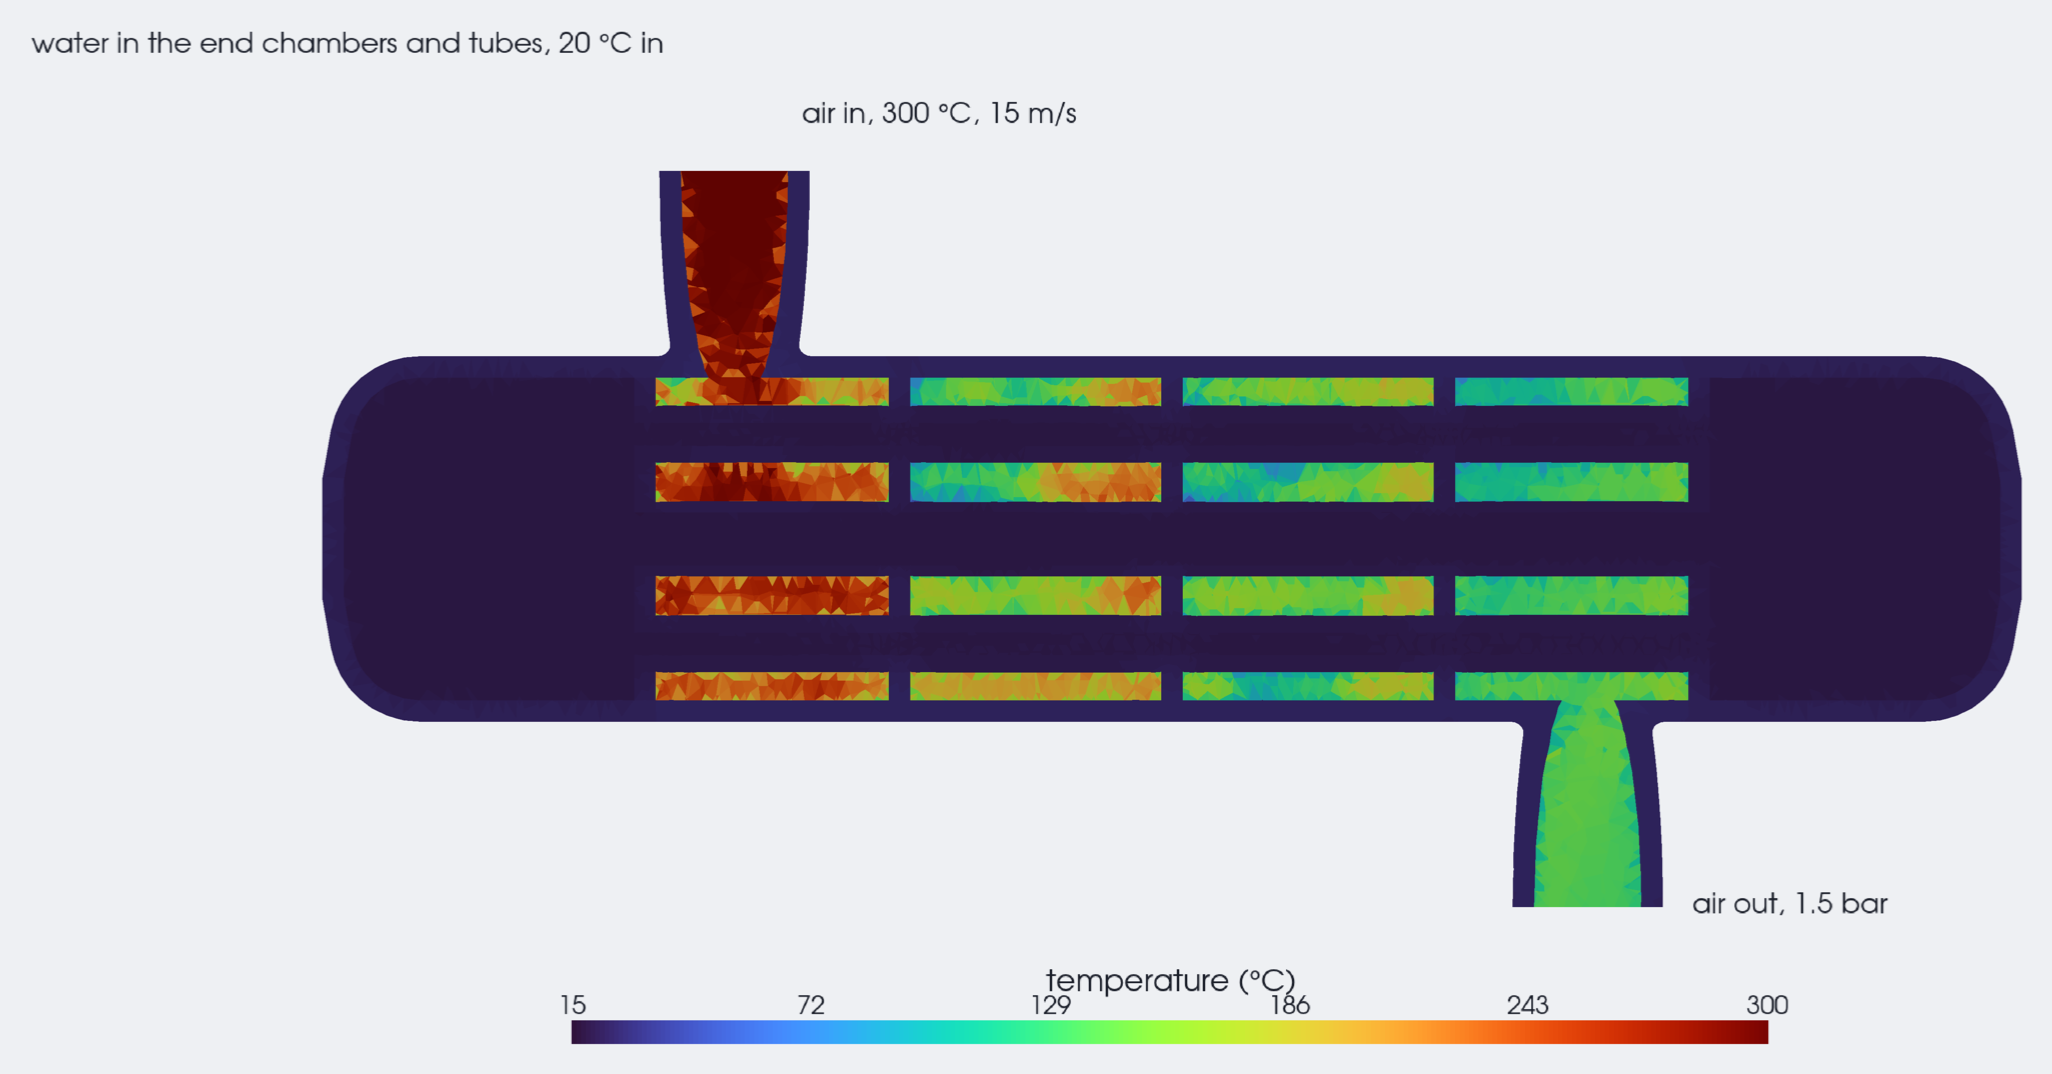
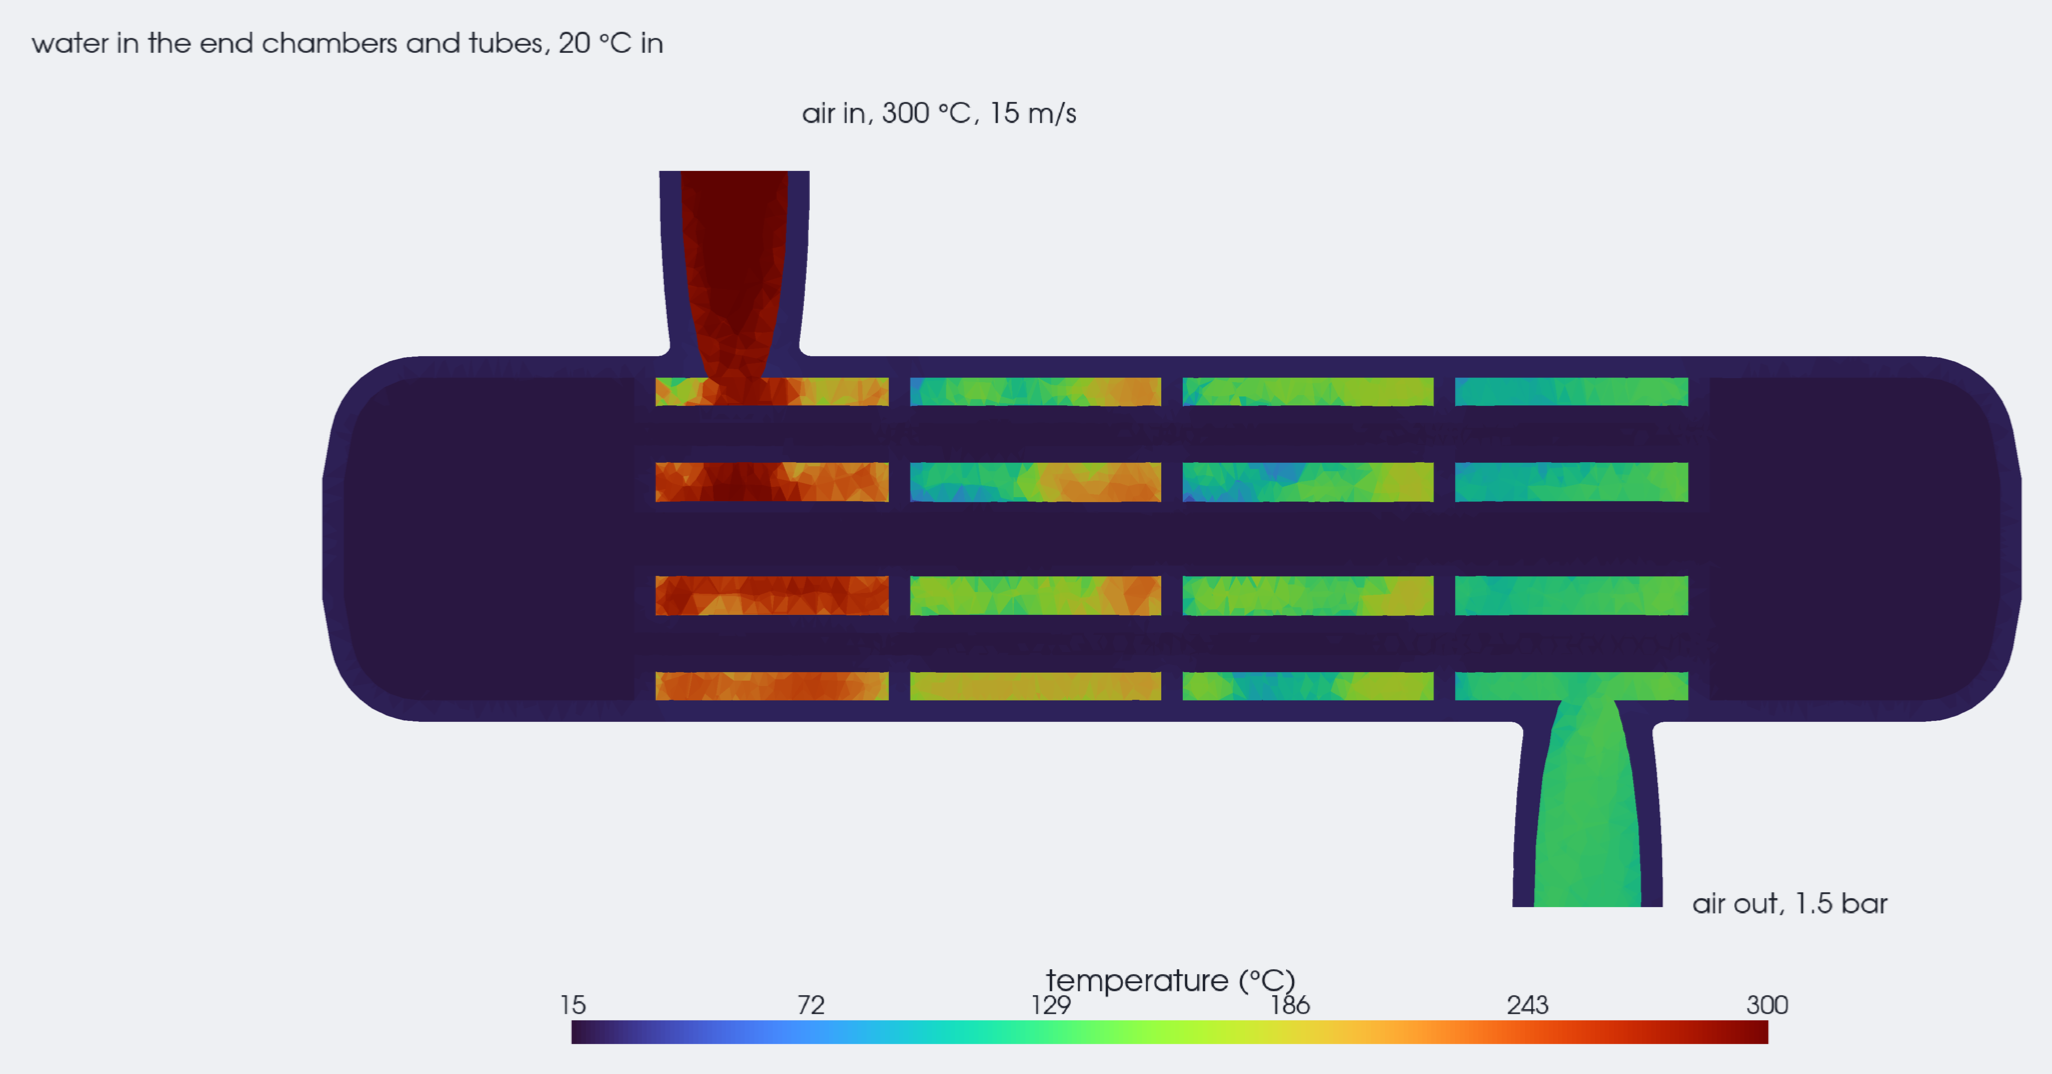
Heat exchanger (application 203): steel temperatures, coflow images redrawn from a clean state
Two images of the housing, tubesheets, tubes and baffles by temperature
(20 to 30 C) and a table per part. The coflow images and the README teaser
are redrawn from iteration 3 250: the old ones were drawn one iteration
after a restart that reset the vertex limiter's memory.

Claude-Session: https://claude.ai/code/session_012imjwmdhLmbpheTHrhVFSs

diff --git a/examples/applications/shell_tube_hx/flow_images.py b/examples/applications/shell_tube_hx/flow_images.py
@@ -1,7 +1,9 @@
 """Flow images of the heat exchanger (application 203): the temperature and
-the speed on a section through both air nozzles and the axis, and the
-temperature on the plane x = 0 through the water nozzles and two tubes;
-with a third argument also the README teaser.
+the speed on a section through both air nozzles and the axis, the
+temperature on the plane x = 0 through the water nozzles and two tubes,
+and the temperature of the steel (the housing cut open at x = 0 around the
+whole tube bundle, and the bundle alone from the other side); with a third
+argument also the README teaser.
 
     pip install h5py pyvista pillow
     xvfb-run -a python3 examples/applications/shell_tube_hx/flow_images.py \
@@ -27,8 +29,9 @@ f = h5py.File(src, "r")["VTKHDF/internal"]
 pts = f["Points"][()] * 1000.0  # mm
 conn, off = f["Connectivity"][()], f["Offsets"][()]
 g = pv.UnstructuredGrid(np.insert(conn, off[:-1], np.diff(off)), f["Types"][()], pts)
-for k in ["temperature", "speed", "zone"]:
+for k in ["temperature", "speed"]:
     g.cell_data[k] = f["CellData/" + k][()]
+g.cell_data["zone"] = f["CellData/zone"][()].astype(int)
 zone = g.cell_data["zone"]
 fluid = (zone == 1) | (zone == 2)
 g.cell_data["T_C"] = g.cell_data["temperature"] - 273.15
@@ -100,6 +103,37 @@ p.camera_position = cam([1.0, 0, 0], (0, 150, 25), (0, 0, 1))
 p.camera.zoom(1.5)
 p.screenshot(f"{out}/hx_flow_tube_plane.png")
 crop(f"{out}/hx_flow_tube_plane.png")
+
+# the steel: zones 0 (housing), 3 (tubesheets), 4 (tubes), 5 (baffles)
+STEEL = (20, 30)
+sbar = {**bar, "title": "steel temperature (°C)"}
+
+
+def zones(grid, which):
+    return grid.extract_cells(np.where(np.isin(grid.cell_data["zone"], which))[0])
+
+
+bundle = zones(g, [3, 4, 5]).extract_surface(algorithm="dataset_surface")
+house = zones(g, [0]).clip(normal=(1, 0, 0), origin=(0, 0, 0), invert=True)
+p = pv.Plotter(off_screen=True, window_size=(2400, 1200))
+p.set_background(BG)
+p.enable_anti_aliasing("ssaa")
+p.add_mesh(house.extract_surface(algorithm="dataset_surface"), scalars="T_C", cmap="inferno",
+           clim=STEEL, scalar_bar_args=sbar)
+p.add_mesh(bundle, scalars="T_C", cmap="inferno", clim=STEEL, show_scalar_bar=False, specular=0.2)
+p.camera_position = [(470, -190, 300), (0, 150, 25), (0, 0, 1)]
+p.camera.zoom(1.15)
+p.screenshot(f"{out}/hx_steel_cutaway.png")
+crop(f"{out}/hx_steel_cutaway.png")
+
+p = pv.Plotter(off_screen=True, window_size=(2400, 1200))
+p.set_background(BG)
+p.enable_anti_aliasing("ssaa")
+p.add_mesh(bundle, scalars="T_C", cmap="inferno", clim=STEEL, scalar_bar_args=sbar, specular=0.2)
+p.camera_position = [(-470, -190, -250), (0, 150, 25), (0, 0, 1)]
+p.camera.zoom(1.2)
+p.screenshot(f"{out}/hx_steel_bundle.png")
+crop(f"{out}/hx_steel_bundle.png")
 
 if readme:
     # the README teaser: the temperature section without the labels, 3:1

diff --git a/docs/applications/heat-exchangers.md b/docs/applications/heat-exchangers.md
@@ -33,7 +33,7 @@ one steady conjugate case, with the water in coflow and in counter flow.
 | Run cost | meshing 40 s (level 0) to 2 min (level 2) on one core; the flow on level 0, 2 500 iterations in 90 min on four cores |
 | Confidence | **demonstration**: one mesh (level 0), the water-side heat flows not settled (C3), see the check card |
 | Boundary conditions | hot air in through `shell_nozzle_front` at 15 m/s and 300 °C, out through `shell_nozzle_rear` at 1.5 bar; water in through a top nozzle at 5 m/s and 20 °C, out through the other at 1 bar; housing outside at 25 °C; everything starts at rest |
-| Case files | `applications/shell_tube_hx/mesh.toml` (mesh check); `case_coflow.toml` (water in at `tube_nozzle_front`, the air's end) and `case_counterflow.toml` (water in at `tube_nozzle_rear`); `flow_images.py` draws the flow images |
+| Case files | `applications/shell_tube_hx/mesh.toml` (mesh check); `case_coflow.toml` (water in at `tube_nozzle_front`, the air's end) and `case_counterflow.toml` (water in at `tube_nozzle_rear`); `flow_images.py` draws the flow and steel images |
 
 ### The mesh
 
@@ -144,6 +144,40 @@ within the swing of the iterations. The water also takes up the heat that
 enters through the outer housing face, held at 25 °C above the 20 °C of
 the water: 0.8 kW, almost half of the air's heat.
 
+### Steel temperatures
+
+<img src="../figures/applications/hx_steel_cutaway.png" alt="Cut-away of the exchanger, the housing cut open at x = 0 around the whole tube bundle, coloured by the steel temperature from 20 to 30 °C: the tubes and the tubesheets dark at 20 to 24 °C, the rims of the three baffles and the housing near the air nozzles warmer, up to about 27 °C" width="800" height="507">
+
+*Coflow, iteration 3 250: the housing cut open at x = 0 around the whole
+tube bundle. The colour range is 20 to 30 °C, not the 15 to 300 °C of the
+flow images: the steel stays within a few kelvin of the water.*
+
+<img src="../figures/applications/hx_steel_bundle.png" alt="The tube bundle alone from the other side, coloured by the steel temperature from 20 to 30 °C: seven dark tubes near 21 °C, the two tubesheets at 21 to 24 °C, the three segmental baffles warmest at their rims and their cut edges, about 26 to 27 °C" width="800" height="527">
+
+*The bundle from the other side: the tubes, the two tubesheets and the
+three baffles.*
+
+| Part | Coflow: min / mean / max (°C) | Counter flow: min / mean / max (°C) |
+|---|---|---|
+| Tubes | 20.4 / 21.4 / 24.0 | 20.3 / 21.4 / 24.2 |
+| Tubesheets | 20.7 / 22.3 / 24.5 | 20.4 / 22.2 / 24.8 |
+| Baffles | 22.0 / 23.9 / 27.3 | 21.9 / 23.9 / 27.6 |
+| Housing | 21.3 / 24.9 / 27.7 | 21.4 / 24.9 / 27.7 |
+
+The steel follows the water, not the air. The water at 5 m/s takes up heat
+far better than the air gives it off, so the tube walls sit within about 4 K
+of the 20 °C water while the air around them is at 120 to 300 °C. All
+parts are warmest near the air inlet, where the path to the water is
+longest: the housing where the inlet nozzle joins the shell (27.7 °C),
+the rim of the first baffle, far from the tubes (27.3 °C), and the ends
+of the tubes at the front tubesheet (24.0 °C). The baffles are warmer at
+their rims and cut edges than between the tubes. The housing is held at
+25 °C on its outer face; inside the end chambers the water cools it to
+about 21 °C. Coflow and counter flow differ by 0.15 K on average in the
+steel and by at most 1.5 K in a single cell. The values are cell values
+of the level 0 mesh, whose walls are only a few cells thick (a
+demonstration, like the rest of the entry).
+
 ### Check card
 
 | Check | Result |
@@ -172,6 +206,11 @@ pressure drop downstream are too high (variable density with several
 fluids comes with MF-B of D194). With these flow rates the two cases cannot
 show a difference between coflow and counter flow (C_r ≈ 0, see above);
 water slow enough for C_r near 1 is laminar and waits for turbulence
-models per fluid region (MF-C of D194).
+models per fluid region (MF-C of D194). The water is not strictly
+bounded: in the slow recirculation of the end chambers 145 of its
+137 791 cells (coflow; 230 in counter flow) lie below 19.5 °C, the lowest
+at 15.7 °C, below its 20 °C inlet; the vertex limiter bounds the
+reconstruction, not the stalled steady iteration. The air stays within
+0.5 K of its 300 °C inlet.
 
 Recipe: [203](../recipes/applications.md#shell-tube-hx-recipe).

diff --git a/docs/recipes/applications.md b/docs/recipes/applications.md
@@ -81,5 +81,5 @@ xvfb-run -a python3 examples/applications/shell_tube_hx/flow_images.py \
     output/hx_coflow/fields.vtkhdf docs/figures/applications
 ```
 
-`flow.json` holds the heat flow and the mixed-mean temperature of every boundary (`solves[0].scalars`, the scalar `temperature`): the heat the air gives up is the sum of the enthalpy flows of the two shell nozzles, the water's the sum over the two tube nozzles. To continue a run, pass `--restart output/hx_coflow/restart.h5` with a larger `solver.max_iterations`; judge it by these heat flows and the air outlet temperature over the last few hundred iterations, not by the residuals, which stall near 10⁻³.
+`flow_images.py` writes the three flow images and the two images of the steel (`hx_steel_cutaway.png`, `hx_steel_bundle.png`, coloured from 20 to 30 °C; change `STEEL` in the script for another range). `flow.json` holds the heat flow and the mixed-mean temperature of every boundary (`solves[0].scalars`, the scalar `temperature`): the heat the air gives up is the sum of the enthalpy flows of the two shell nozzles, the water's the sum over the two tube nozzles. To continue a run, pass `--restart output/hx_coflow/restart.h5` with a larger `solver.max_iterations`; judge it by these heat flows and the air outlet temperature over the last few hundred iterations, not by the residuals, which stall near 10⁻³.
 

diff --git a/changelog.d/213-shell-tube-hx-steel.md b/changelog.d/213-shell-tube-hx-steel.md
@@ -1,0 +1,1 @@
+- **Steel temperatures of the shell and tube exchanger (application 203).** Two new images show the housing, the tubesheets, the tubes and the baffles coloured by temperature (20 to 30 °C), with a table of each part in coflow and counter flow: the steel follows the water, within about 4 K of its 20 °C, and is warmest near the air inlet (the housing at the inlet nozzle 27.7 °C, the rim of the first baffle 27.3 °C). The coflow images and the README teaser are redrawn from the state at iteration 3 250: the earlier ones were drawn one iteration after a restart, which reset the memory of the vertex limiter and let the air in the inlet nozzle overshoot to 360 °C for that iteration. The limits now say that the water in the end chambers falls to 15.7 °C in a few cells, below its 20 °C inlet.
